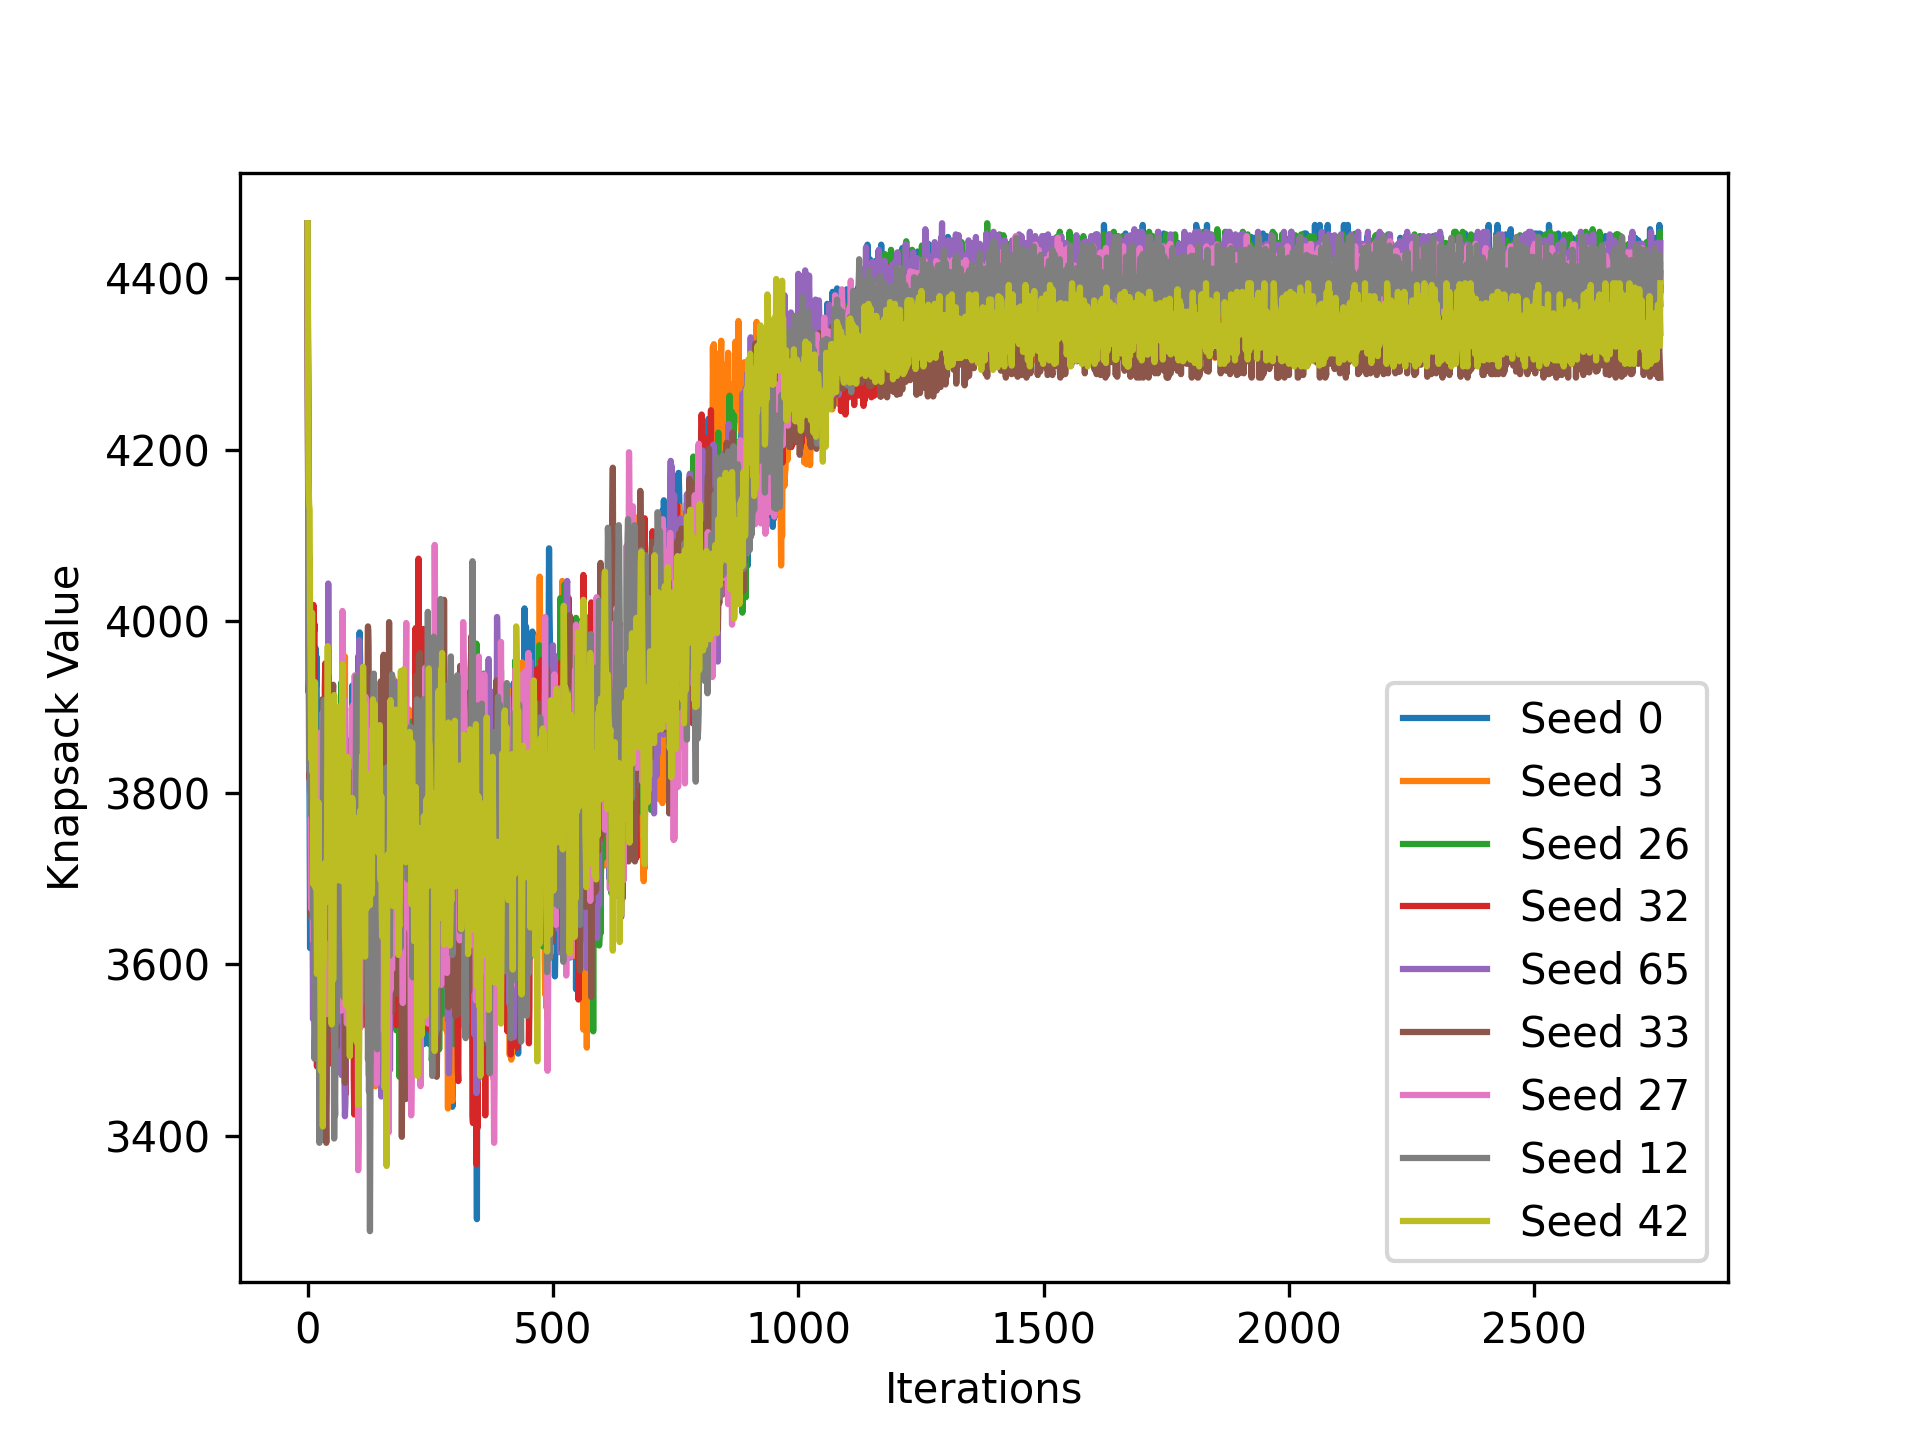
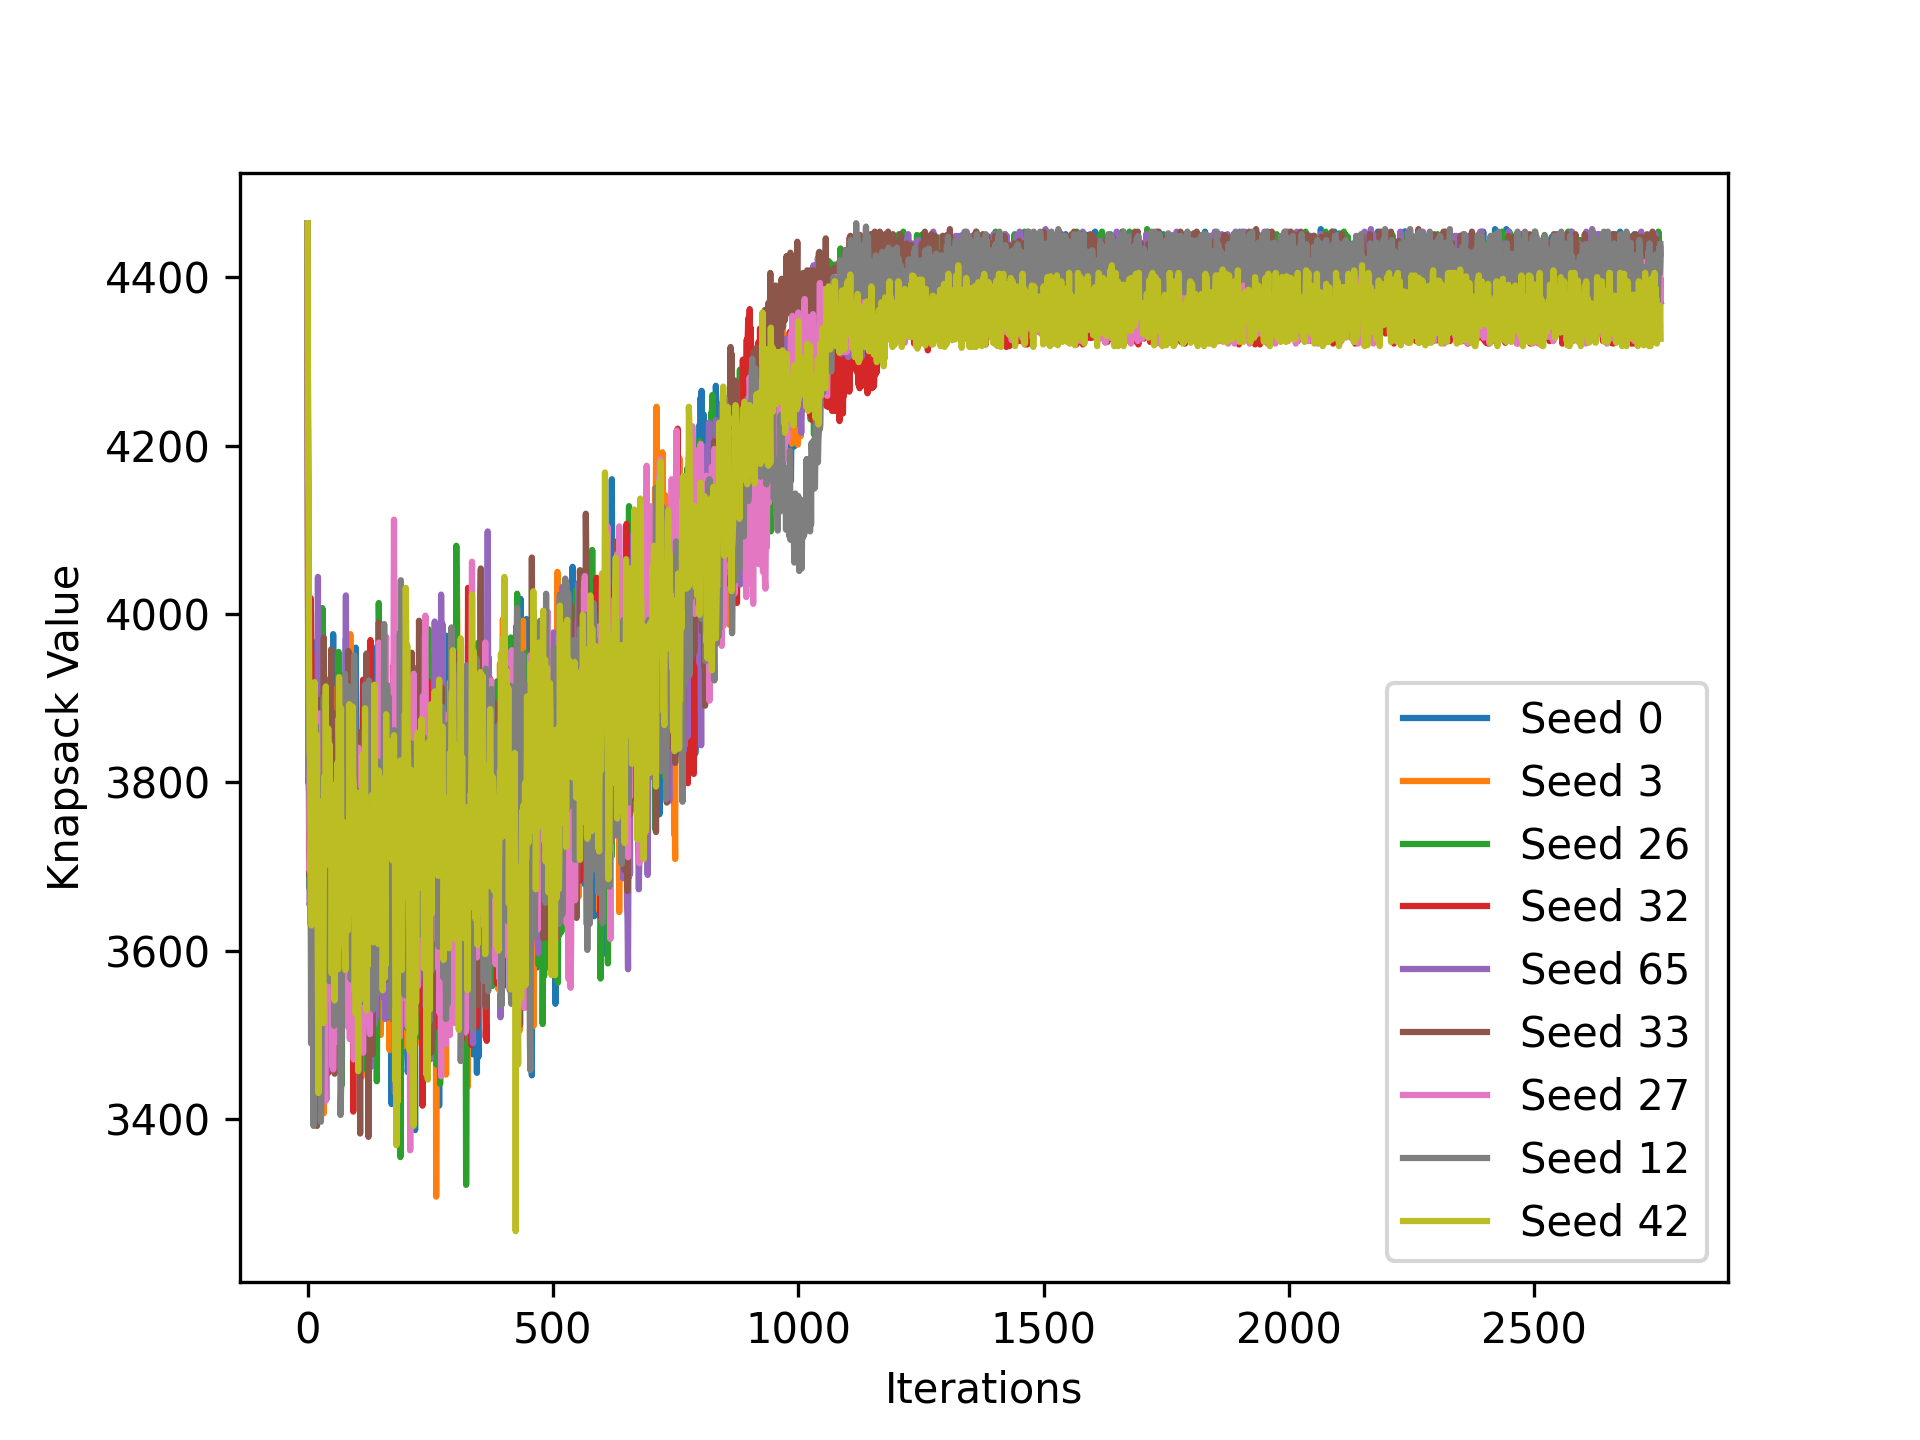
parameter updates on knapsack

diff --git a/knapsack/knapsack.py b/knapsack/knapsack.py
@@ -129,7 +129,7 @@ def simulated_annealing(sack: Knapsack, items: list, tmax, tmin, cooling_rate):
     best_items = list(items)
     while t >= tmin:
         iteration = 0
-        while iteration < 10:
+        while iteration < 20:
             # Generate new solution
             new_solution = copy.copy(sack)
             new_items = list(items)
